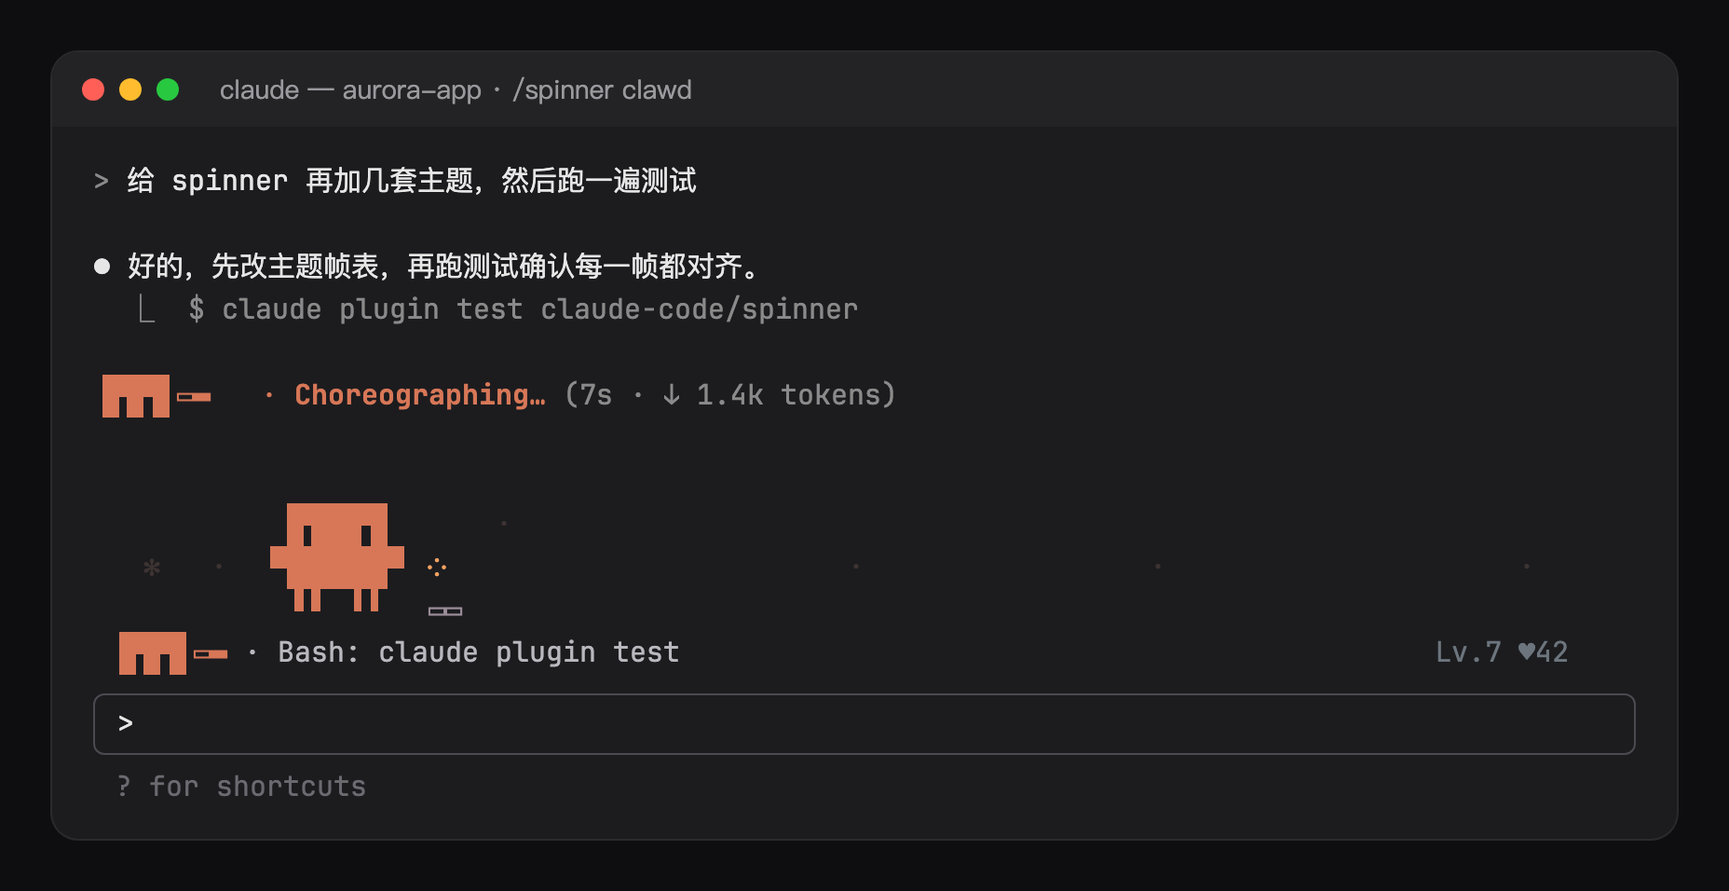
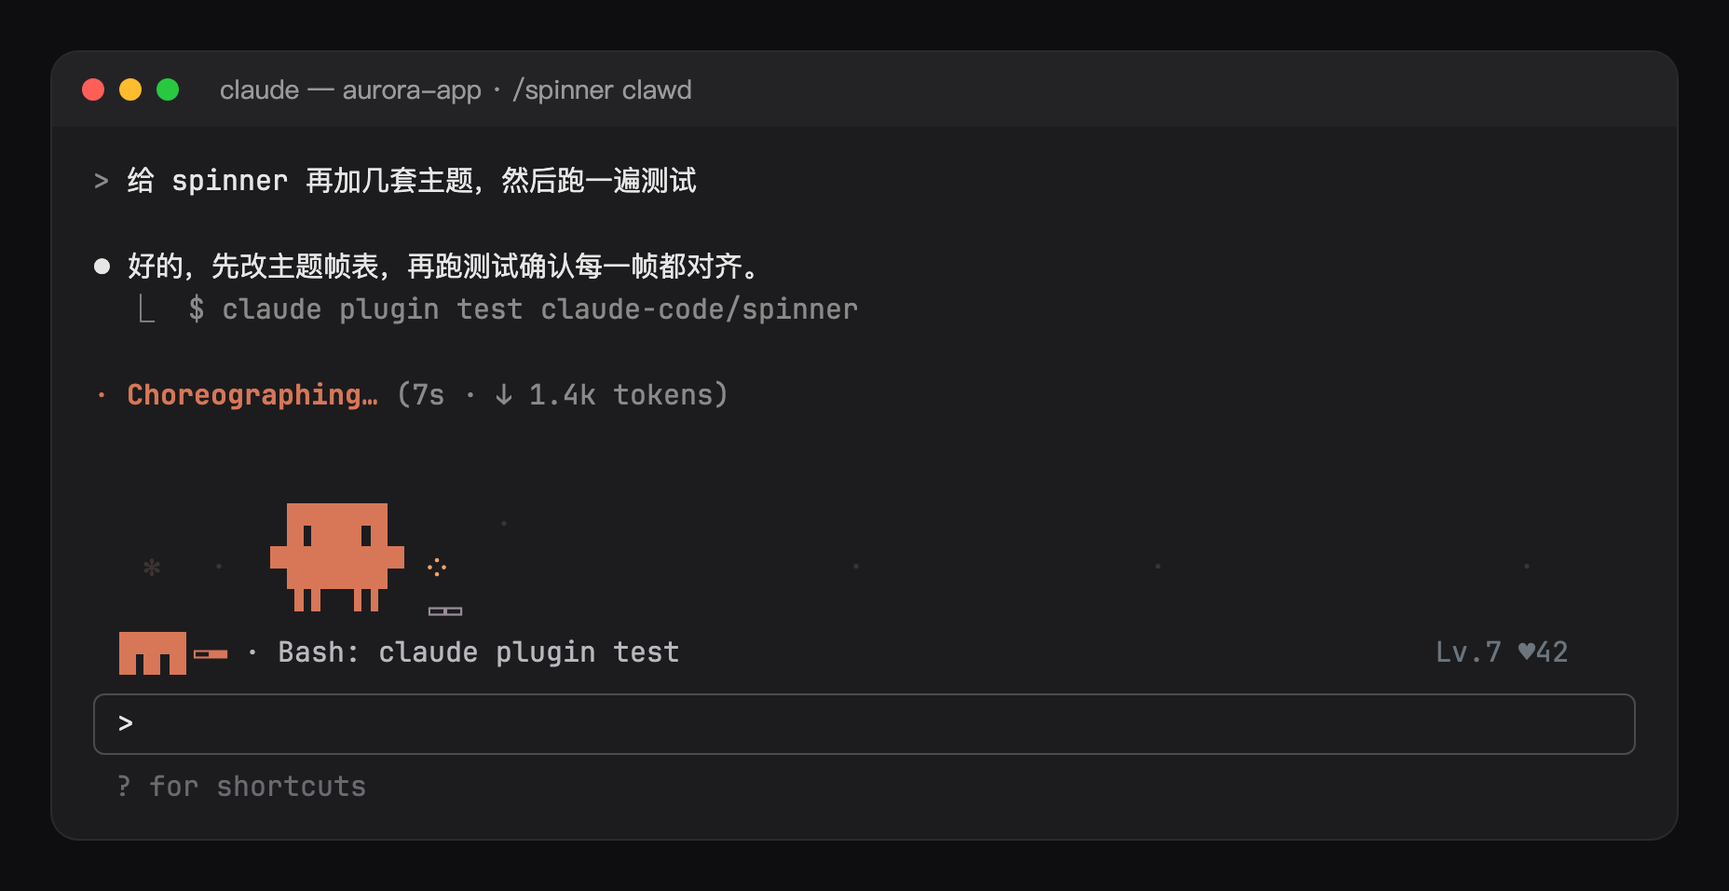
🐛 fix(spinner): 只保留一个角色，气泡不再重复 Spinner 行的状态
- 宠物行显示时 Spinner 行不再放角色；关掉伴侣时角色回到 Spinner 行
- 气泡只显示正在跑的工具、等待确认和结束状态，思考 / 输出时不再说"想一想"
- 角色走出一侧时从另一侧进场，小剧场不再出现空场
- 重绘预览图，发布 0.2.1

Changed region(s): [[0.0312, 0.3944, 0.5312, 0.4854]]

diff --git a/claude-code/spinner/hooks/i18n.ts b/claude-code/spinner/hooks/i18n.ts
@@ -76,11 +76,7 @@ export type Key =
   | 'finale.aborted'
   | 'finale.error'
   | 'pet.hello'
-  | 'pet.think'
-  | 'pet.tool'
   | 'pet.ask'
-  | 'pet.say'
-  | 'pet.wait'
   | 'pet.ready'
   | 'pet.aborted'
   | 'pet.error'
@@ -110,11 +106,7 @@ export const MESSAGES: Record<Lang, Record<Key, string>> = {
     'finale.aborted': 'Interrupted',
     'finale.error': 'Something went wrong',
     'pet.hello': 'I’m here with you~',
-    'pet.think': 'Thinking…',
-    'pet.tool': '{tool}',
     'pet.ask': 'Waiting for your OK~',
-    'pet.say': 'Writing the reply',
-    'pet.wait': 'Waiting on the model…',
     'pet.ready': 'All done, take a look!',
     'pet.aborted': 'Okay, stopped.',
     'pet.error': 'Ouch… something broke',
@@ -143,11 +135,7 @@ export const MESSAGES: Record<Lang, Record<Key, string>> = {
     'finale.aborted': '已中断',
     'finale.error': '出错了',
     'pet.hello': '我在这儿陪你～',
-    'pet.think': '想一想…',
-    'pet.tool': '{tool}',
     'pet.ask': '等你确认一下～',
-    'pet.say': '正在写回复',
-    'pet.wait': '等模型回应…',
     'pet.ready': '做完啦，快看看！',
     'pet.aborted': '好吧，停下了',
     'pet.error': '呜…出错了',
@@ -176,11 +164,7 @@ export const MESSAGES: Record<Lang, Record<Key, string>> = {
     'finale.aborted': '已中斷',
     'finale.error': '出錯了',
     'pet.hello': '我在這裡陪你～',
-    'pet.think': '想一想…',
-    'pet.tool': '{tool}',
     'pet.ask': '等你確認一下～',
-    'pet.say': '正在寫回覆',
-    'pet.wait': '等模型回應…',
     'pet.ready': '做完了，快看看！',
     'pet.aborted': '好吧，停下了',
     'pet.error': '嗚…出錯了',
@@ -209,11 +193,7 @@ export const MESSAGES: Record<Lang, Record<Key, string>> = {
     'finale.aborted': '中断しました',
     'finale.error': 'エラーが発生しました',
     'pet.hello': 'そばにいるよ～',
-    'pet.think': '考え中…',
-    'pet.tool': '{tool}',
     'pet.ask': '確認を待ってるよ～',
-    'pet.say': '返信を書いてる',
-    'pet.wait': 'モデルの応答待ち…',
     'pet.ready': 'できたよ、見てみて！',
     'pet.aborted': 'はい、止めたよ',
     'pet.error': 'うぅ…エラーだ',
@@ -242,11 +222,7 @@ export const MESSAGES: Record<Lang, Record<Key, string>> = {
     'finale.aborted': '중단됨',
     'finale.error': '오류가 발생했습니다',
     'pet.hello': '여기서 함께할게요~',
-    'pet.think': '생각 중…',
-    'pet.tool': '{tool}',
     'pet.ask': '확인을 기다려요~',
-    'pet.say': '답장을 쓰는 중',
-    'pet.wait': '모델 응답 대기…',
     'pet.ready': '다 했어요, 확인해 보세요!',
     'pet.aborted': '네, 멈췄어요',
     'pet.error': '으… 오류가 났어요',
@@ -275,11 +251,7 @@ export const MESSAGES: Record<Lang, Record<Key, string>> = {
     'finale.aborted': 'Interrumpido',
     'finale.error': 'Algo salió mal',
     'pet.hello': '¡Aquí estoy contigo!',
-    'pet.think': 'Pensando…',
-    'pet.tool': '{tool}',
     'pet.ask': 'Esperando tu OK~',
-    'pet.say': 'Escribiendo la respuesta',
-    'pet.wait': 'Esperando al modelo…',
     'pet.ready': '¡Listo, échale un vistazo!',
     'pet.aborted': 'Vale, me detengo.',
     'pet.error': 'Ay… algo falló',
@@ -308,11 +280,7 @@ export const MESSAGES: Record<Lang, Record<Key, string>> = {
     'finale.aborted': 'Interrompu',
     'finale.error': 'Une erreur est survenue',
     'pet.hello': 'Je suis là avec toi~',
-    'pet.think': 'Je réfléchis…',
-    'pet.tool': '{tool}',
     'pet.ask': 'J’attends ton accord~',
-    'pet.say': 'J’écris la réponse',
-    'pet.wait': 'J’attends le modèle…',
     'pet.ready': 'Fini, jette un œil\u00a0!',
     'pet.aborted': 'D’accord, j’arrête.',
     'pet.error': 'Aïe… une erreur',
@@ -341,11 +309,7 @@ export const MESSAGES: Record<Lang, Record<Key, string>> = {
     'finale.aborted': 'Abgebrochen',
     'finale.error': 'Etwas ist schiefgelaufen',
     'pet.hello': 'Ich bin bei dir~',
-    'pet.think': 'Denke nach…',
-    'pet.tool': '{tool}',
     'pet.ask': 'Warte auf dein OK~',
-    'pet.say': 'Schreibe die Antwort',
-    'pet.wait': 'Warte auf das Modell…',
     'pet.ready': 'Fertig, schau mal!',
     'pet.aborted': 'Okay, angehalten.',
     'pet.error': 'Autsch… ein Fehler',
@@ -374,11 +338,7 @@ export const MESSAGES: Record<Lang, Record<Key, string>> = {
     'finale.aborted': 'Interrompido',
     'finale.error': 'Algo deu errado',
     'pet.hello': 'Estou aqui com você~',
-    'pet.think': 'Pensando…',
-    'pet.tool': '{tool}',
     'pet.ask': 'Esperando seu OK~',
-    'pet.say': 'Escrevendo a resposta',
-    'pet.wait': 'Esperando o modelo…',
     'pet.ready': 'Pronto, dá uma olhada!',
     'pet.aborted': 'Tá, parei.',
     'pet.error': 'Ai… deu erro',
@@ -407,11 +367,7 @@ export const MESSAGES: Record<Lang, Record<Key, string>> = {
     'finale.aborted': 'Прервано',
     'finale.error': 'Что-то пошло не так',
     'pet.hello': 'Я рядом~',
-    'pet.think': 'Думаю…',
-    'pet.tool': '{tool}',
     'pet.ask': 'Жду твоего OK~',
-    'pet.say': 'Пишу ответ',
-    'pet.wait': 'Жду модель…',
     'pet.ready': 'Готово, посмотри!',
     'pet.aborted': 'Ладно, остановился.',
     'pet.error': 'Ой… ошибка',

diff --git a/scripts/spinner-shots.ts b/scripts/spinner-shots.ts
@@ -8,8 +8,8 @@ import { join } from 'node:path'
 
 import { chromium } from 'playwright-core'
 
-import { SPRITE_MS, STAGE_MS, THEMES, THEME_NAMES, blank, finaleScene, frame, hsl, padTo, petRow, poseOf, put, segments, textWidth } from '../claude-code/spinner/hooks/themes'
-import type { Act, Cell, Mode, Style, Theme } from '../claude-code/spinner/hooks/themes'
+import { STAGE_MS, THEMES, THEME_NAMES, blank, finaleScene, frame, petRow, put, segments, textWidth } from '../claude-code/spinner/hooks/themes'
+import type { Act, Cell, Style, Theme } from '../claude-code/spinner/hooks/themes'
 
 const COLS = 92
 const WORK_FRAMES = 42
@@ -42,20 +42,11 @@ function line(parts: [string, Style?][]): Row {
   return g[0]!
 }
 
-function sprite(theme: Theme, mode: Mode, t: number): [string, Style][] {
-  const frames = theme.sprite[poseOf(mode)]
-  const width = Math.max(...Object.values(theme.sprite).flat().map(textWidth))
-  const text = padTo(frame(frames, t), width)
-  if (!theme.isRainbow) return [[text, { c: theme.color, b: true }]]
-  return Array.from(text).map((ch, i) => [ch, { c: hsl((i * 40 + t * 24) % 360, 0.95, 0.62), b: true }])
-}
-
 /** The terminal's rows at frame `f`: a turn running, then its finale. */
 function screen(theme: Theme, f: number): Row[] {
   const rows: Row[] = []
   const text = (parts: [string, Style?][]) => Object.assign(line(parts), { isText: true })
   const isDone = f >= WORK_FRAMES
-  const mode: Mode = f < 14 ? 'thinking' : f < 28 ? 'tool-use' : 'responding'
   const act: Act = f < 14 ? 'think' : f < 28 ? 'tool' : 'say'
   rows.push(text([['> ', { c: DIM }], ['给 spinner 再加几套主题，然后跑一遍测试', { c: WHITE }]]))
   rows.push(line([]))
@@ -68,9 +59,8 @@ function screen(theme: Theme, f: number): Row[] {
   } else {
     const glyph = frame(['·', '✢', '✳', '✶', '✻', '✽', '✻', '✶', '✳', '✢'], f)
     const secs = 3 + Math.floor(f / 5)
+    // With the companion's row showing, the engine's line stays its own.
     rows.push(line([
-      ...sprite(theme, mode, Math.floor((f * STAGE_MS) / SPRITE_MS)),
-      [' '],
       [`${glyph} `, { c: ENGINE }],
       ['Choreographing…', { c: ENGINE, b: true }],
       [` (${secs}s · ↓ ${(0.4 + f * 0.05).toFixed(1)}k tokens)`, { c: DIM }],
@@ -80,7 +70,7 @@ function screen(theme: Theme, f: number): Row[] {
   rows.push(line([]))
   const w = COLS - 3
   const stage = isDone ? finaleScene(theme, 'answer', '完成 · 12s', f - WORK_FRAMES, w) : theme.scene(f, w, act)
-  const bubble = act === 'think' ? '想一想…' : act === 'tool' ? 'Bash: claude plugin test' : '正在写回复'
+  const bubble = act === 'tool' ? 'Bash: claude plugin test' : ''
   const pet = petRow(theme, { state: isDone ? 'ready' : act, bubble: isDone ? '做完啦，快看看！' : bubble, stats: 'Lv.7 ♥42' }, f, w, isDone && f - WORK_FRAMES > 8 && f - WORK_FRAMES < 20 ? f - WORK_FRAMES - 8 : 0)
   for (const row of [...stage, ...(isDone ? [] : pet)]) rows.push([...row, ...line([]).slice(0, 3)])
   if (isDone) for (const row of pet) rows.push([...row, ...line([]).slice(0, 3)])
@@ -186,7 +176,7 @@ async function main() {
   const gallery = THEME_NAMES.map(name => {
     const theme = THEMES[name]
     const rows = [
-      line([...sprite(theme, 'tool-use', 1), [' '], ['✻ ', { c: ENGINE }], ['Choreographing…', { c: ENGINE, b: true }]]),
+      line([['✻ ', { c: ENGINE }], ['Choreographing…', { c: ENGINE, b: true }]]),
       line([]),
       ...theme.scene(36, COLS, 'tool'),
       ...petRow(theme, { state: 'tool', bubble: 'Bash: npm test', stats: 'Lv.7 ♥42' }, 1, COLS, 0),

diff --git a/claude-code/spinner/tests/spinner.test.tsx b/claude-code/spinner/tests/spinner.test.tsx
@@ -64,7 +64,7 @@ test('every scene, finale and companion row fills exactly its width, every frame
           ...scene,
           ...finaleScene(theme, 'answer', '完成 · 12s', t, w),
           ...finaleScene(theme, 'error', 'x', t, w),
-          ...petRow(theme, { state: acts[t % 4]!, bubble: 'Bash: npm test', stats: 'Lv.3 ♥12' }, t, w, t % 3),
+          ...petRow(theme, { state: acts[t % 4]!, bubble: t % 2 ? 'Bash: npm test' : '', stats: 'Lv.3 ♥12' }, t, w, t % 3),
           ...petRow(theme, { state: 'sleep', bubble: 'Zzz…', stats: 'Lv.1 ♥0' }, t, w, 0),
         ]
         for (const row of rows) {
@@ -87,11 +87,16 @@ test('helpers', async () => {
   expect(toolLabel({ tool: 'mcp__github__create_issue' })).toBe('create_issue')
 })
 
-test('mascot rides in front of the engine line and animates', async ($, on) => {
+test('one mascot: in the companion row, or in front of the engine line without it', async ($, on) => {
   const clock = host(on)
   await $.session.start(START)
   await clock.settle()
   await $.command.run({ ...RUN, command: 'spinner', args: 'cat' })
+  const plain = await $.ui.mount({ plugin: 'spinner', surface: 'terminal', ...SPINNER })
+  expect(await plain.findAll({ type: 'Client' })).toHaveLength(0)
+  await plain.unmount()
+
+  await $.command.run({ ...RUN, command: 'spinner', args: 'companion off' })
   for (const surface of ['terminal', 'desktop'] as const) {
     const ui = await $.ui.mount({ plugin: 'spinner', surface, ...SPINNER })
     expect(await ui.find({ type: 'Text', text: 'Sauteing…' })).toBeDefined()
@@ -113,8 +118,9 @@ test('band plays the scene and the companion while working, keeps other bands', 
     const ui = await $.ui.mount({ plugin: 'spinner', surface, ...BAND })
     expect(await ui.find({ type: 'Text', text: 'Sauteing…' })).toBeDefined()
     expect(await drawn(ui, 'work')).toContain('HI 00000')
-    expect(await drawn(ui, 'work')).toContain('想一想…')
     expect(await drawn(ui, 'work')).toContain('Lv.1 ♥0')
+    // Thinking is the engine's line to say; the bubble stays quiet.
+    expect(await drawn(ui, 'work')).not.toContain(' · ')
     await ui.advance(STAGE_MS * 5)
     expect(await drawn(ui, 'work')).toContain('HI 00005')
     await ui.unmount()
@@ -123,7 +129,7 @@ test('band plays the scene and the companion while working, keeps other bands', 
   await $.command.run({ ...RUN, command: 'spinner', args: 'stage off' })
   const off = await $.ui.mount({ plugin: 'spinner', surface: 'terminal', ...BAND })
   expect(await drawn(off, 'work')).not.toContain('HI 0')
-  expect(await drawn(off, 'work')).toContain('想一想…')
+  expect(await drawn(off, 'work')).toContain('Lv.1 ♥0')
   await off.unmount()
 })
 
@@ -147,7 +153,8 @@ test('the companion follows tool calls and permission prompts', async ($, on) =>
   await clock.advance(1000)
   await call
   ui = await $.ui.mount({ plugin: 'spinner', surface: 'terminal', ...BAND })
-  expect(await drawn(ui, 'work')).toContain('想一想…')
+  expect(await drawn(ui, 'work')).not.toContain('Bash: npm test')
+  expect(await drawn(ui, 'work')).not.toContain('等你确认')
   await ui.unmount()
 })
 

diff --git a/claude-code/spinner/hooks/themes.ts b/claude-code/spinner/hooks/themes.ts
@@ -80,8 +80,8 @@ function catScene(t: number, w: number): Grid {
     const n = noise(x + 1000 * Math.floor((x + t) / w))
     if (mod(x + t, 7) === 0) put(g, x, 1, n < 0.5 ? '˙' : ',', { c: '#7fb069', d: true })
   }
-  const lap = w + 16
-  const cx = mod(Math.floor(t * 0.6), lap) - 12
+  const lap = w + 8
+  const cx = mod(Math.floor(t * 0.6), lap) - 6
   put(g, cx, 1, 'ᓚᘏᗢ', { c: frame(['#ffb3c6', '#ffc8dd'], t >> 1), b: true })
   put(g, cx + 5, 1, frame(['◐', '◓', '◑', '◒'], t), { c: '#ffd166' })
   // Hearts float up behind the cat and fade.
@@ -98,8 +98,8 @@ function bunnyScene(t: number, w: number): Grid {
   for (let x = 0; x < w; x++) {
     if (mod(x * 7 + 3, 11) === 0) put(g, x, 1, '"', { c: '#80b918', d: true })
   }
-  const lap = w + 14
-  const bx = mod(Math.floor(t * 0.5), lap) - 10
+  const lap = w + 11
+  const bx = mod(Math.floor(t * 0.5), lap) - 11
   // Carrots ahead of the bunny; the ones it has passed are eaten.
   for (let x = 6; x < w; x += 13) {
     if (x > bx + 9 || bx < -6) put(g, x, 1, 'ɣ', { c: '#ff9f1c', b: true })
@@ -243,7 +243,7 @@ function clawdScene(t: number, w: number, act: Act): Grid {
     if (noise(x * 3 + 1) < 0.06) put(g, x, mod(x, 2), mod(t + x * 7, 40) < 3 ? '✻' : '·', { c: '#5c4b45', d: true })
   }
   // He strolls across, stopping halfway to work; then strolls on.
-  const lap = w + 30
+  const lap = w + 10
   const p = mod(t, lap + 40)
   const pause = Math.floor(lap / 2)
   const x = p < pause ? p - 10 : p < pause + 40 ? pause - 10 : p - 50
@@ -353,7 +353,7 @@ const TAIL = ['...YYYY', '....YY.', '...YY..', '..YYYY.', '...YY..', '..YY...']
 
 function sparkyScene(t: number, w: number, act: Act): Grid {
   const cv = canvas(w, 3)
-  const lap = w + 20
+  const lap = w + 8
   const x = mod(Math.floor(t * 0.5), lap) - 8
   draw(cv, x - 7, 0, TAIL, { Y: '#d4a017' })
   const cheek = mod(t, 6) < 3 && act === 'tool' ? '#fff3b0' : '#e63946'
@@ -383,7 +383,7 @@ function bluecatScene(t: number, w: number, act: Act): Grid {
     const cx = mod(Math.floor(noise(i) * w) - Math.floor(t * 0.3), w + 8) - 4
     draw(cv, cx, 1 + (i % 3), ['.WW.', 'WWWW'], { W: '#2b2d42' })
   }
-  const lap = w + 18
+  const lap = w + 9
   const x = mod(Math.floor(t * 0.4), lap) - 9
   // Gadgets tumble out of the pocket while a tool runs.
   if (act === 'tool') {
@@ -783,7 +783,7 @@ export function petRow(theme: Theme, pet: PetView, t: number, w: number, hearts:
     put(g, x, 0, frame(['♡', '♥', '♡ ♥', '♥ ♡'], hearts), { c: '#ff8fab', b: true })
     x += 4
   }
-  put(g, x, 0, `${s === 'ask' ? '❯ ' : '· '}${pet.bubble}`, BUBBLE[s] ?? { c: '#b8b8be' })
+  if (pet.bubble) put(g, x, 0, `${s === 'ask' ? '❯ ' : '· '}${pet.bubble}`, BUBBLE[s] ?? { c: '#b8b8be' })
   put(g, w - textWidth(pet.stats) - 1, 0, pet.stats, { c: '#6c757d' })
   return g
 }

diff --git a/claude-code/spinner/hooks/register.tsx b/claude-code/spinner/hooks/register.tsx
@@ -81,8 +81,10 @@ async function settle($: EngineInterface, running: Map<string, string>): Promise
   await update($, activity, () => (last ? { act: 'tool' as Act, tool: last } : { act: 'think' as Act }))
 }
 
+/** The bubble says what the engine's spinner line does not: the tool, a prompt waiting, how the turn ended. */
 function bubbleOf(state: Act | Mood, tool: string | undefined): string {
-  if (state === 'tool') return tool ? m('pet.tool', { tool }) : m('pet.think')
+  if (state === 'tool') return tool ?? ''
+  if (state === 'think' || state === 'say' || state === 'wait') return ''
   return m(`pet.${state}`)
 }
 
@@ -240,7 +242,8 @@ export const register: Register = (on, options) => {
   // The mascot rides in front of the engine's own line, which keeps its word,
   // elapsed time and tokens.
   on('ui.render', { component: 'Spinner' }, async ($, e, next) => {
-    if (await read($, isHidden)) return next(e)
+    // One mascot at a time: with the companion's row showing, it stays there.
+    if ((await read($, isHidden)) || !(await read($, isCompanionOff))) return next(e)
     const ui = $.ui.resolve(e)
     if (!('Client' in ui)) return next(e)
     const { Box, Client } = ui

diff --git a/README.md b/README.md
@@ -19,7 +19,7 @@
 | [`hud`](claude-code/hud) | 把 [claude-hud](https://github.com/jarrodwatts/claude-hud) 0.10.0 改成 mod，显示模型、项目、git、上下文、用量、工具、子代理和待办，可以放在输入框上方或下方。另外加了：长任务结束提醒、上下文和额度预警、用量耗尽预测、每日预算、近 7 天花费、未提交改动提醒、一行任务摘要，`/hud detail` 详情面板，以及 12 套可随时切换的主题（科技霓虹、彩虹渐变、emoji、樱花 / 猫咪 / 机甲 / 热血等带颜文字看板娘的动漫风、Nerd Font 与 powerline） |
 | [`ts-band`](claude-code/ts-band) | 在输入框上方显示 Tailscale 节点状态：全部直连时只占一个短标记，有节点走中继 / DERP（黄）或离线（红）时只列出这些节点；节点上线或掉线时弹提示 |
 | [`hitokoto`](claude-code/hitokoto) | 在输入框上方显示一句[一言](https://hitokoto.cn)，可以定时换、每天一句、每个会话一句或每次发消息换一句 |
-| [`spinner`](claude-code/spinner) | AI 运行时的动画和宠物伴侣：Spinner 行前加一个会按思考 / 调工具 / 输出切换动作的小角色；输入框上方放动画小剧场，有像素风的雷霆战机横版射击、Claude 的 Clawd、吃豆人、电气鼠、蓝色机器猫、彩虹猫，以及猫、兔子、樱花、机甲、霓虹、小恐龙、小鱼、字符雨；宠物伴侣参考 Codex Pets，气泡里显示正在跑的工具、等你确认时提醒，空闲时留在输入框上方，跑完一轮涨经验升级，点它或 `/spinner pet` 摸摸会冒爱心；一轮结束放 3 秒彩带并显示用时；14 套主题，`/spinner` 随时切换和预览 |
+| [`spinner`](claude-code/spinner) | AI 运行时的动画和宠物伴侣：输入框上方放动画小剧场，有像素风的雷霆战机横版射击、Claude 的 Clawd、吃豆人、电气鼠、蓝色机器猫、彩虹猫，以及猫、兔子、樱花、机甲、霓虹、小恐龙、小鱼、字符雨；宠物伴侣参考 Codex Pets，按思考 / 调工具 / 输出切换动作，气泡只说 Spinner 行没有的信息（正在跑的工具、等你确认），空闲时留在输入框上方，跑完一轮涨经验升级，点它或 `/spinner pet` 摸摸会冒爱心；一轮结束放 3 秒彩带并显示用时；14 套主题，`/spinner` 随时切换和预览 |
 
 从本仓库的插件市场安装：
 

diff --git a/README.en.md b/README.en.md
@@ -19,7 +19,7 @@ Mods, extensions and plugins I've written for coding-agent harnesses, one folder
 | [`hud`](claude-code/hud) | [claude-hud](https://github.com/jarrodwatts/claude-hud) 0.10.0 as a mod: model, project, git, context, usage, tools, agents and todos, above or below the prompt. On top of that: a turn-done alert for long turns, context and limit alerts, a forecast of when a limit runs out, a daily budget, the last 7 days' spend, a nag about uncommitted changes, a one-line task summary, a `/hud detail` pane, and 12 themes to switch between live (neon, rainbow gradient, emoji, anime ones with a kaomoji mascot: sakura, kawaii, mecha, shonen; Nerd Font and powerline) |
 | [`ts-band`](claude-code/ts-band) | Tailscale node state in a band above the prompt: one short mark while every node is direct, otherwise only the nodes on a relay or DERP (yellow) or offline (red), with a toast when a node comes up or goes down |
 | [`hitokoto`](claude-code/hitokoto) | A line from [Hitokoto (一言)](https://hitokoto.cn) above the prompt, refreshed on a timer, once a day, per session or per prompt |
-| [`spinner`](claude-code/spinner) | Animations and a companion pet while the model works: a mascot in front of the spinner that changes pose for thinking, tools and replies; a scene above the prompt (pixel-art: a shoot-em-up, Claude's Clawd, a dot-eater, an electric mouse, a robot cat, a rainbow cat; plus cat, bunny, sakura, mecha, neon, dino, ocean and Matrix rain); a Codex-style pet whose bubble names the tool running and flags a permission prompt, stays between turns, levels up and takes a pat (click or `/spinner pet`); a three-second confetti finale with the turn's time; fourteen themes, switched and previewed with `/spinner` |
+| [`spinner`](claude-code/spinner) | Animations and a companion pet while the model works: a scene above the prompt (pixel-art: a shoot-em-up, Claude's Clawd, a dot-eater, an electric mouse, a robot cat, a rainbow cat; plus cat, bunny, sakura, mecha, neon, dino, ocean and Matrix rain); a Codex-style pet that changes pose for thinking, tools and replies, whose bubble names the tool running and flags a permission prompt (never repeating the spinner line), stays between turns, levels up and takes a pat (click or `/spinner pet`); a three-second confetti finale with the turn's time; fourteen themes, switched and previewed with `/spinner` |
 
 Install them from this repo's marketplace:
 

diff --git a/claude-code/spinner/README.md b/claude-code/spinner/README.md
@@ -4,9 +4,9 @@ Animations and a companion pet while the model works.
 
 ![spinner: Clawd through a turn, the companion's bubble and the finale](assets/clawd.gif)
 
-- **Mascot**: a little character in front of Claude Code's own spinner line (`[◉_◉]⊃━━ ✢ Choreographing… (4s · ↓ 14 tokens)`), with frames for thinking, using tools, responding and waiting. The engine's word, elapsed time and tokens stay as they are.
 - **Stage**: an animated scene in the band above the prompt while a turn runs. Other mods' bands (hud, ts-band, hitokoto) stay beneath it.
-- **Companion**: a pet in a row under the stage, in the spirit of Codex's pets. It shows what the model is doing (`Bash: npm test`, `Edit: themes.ts`, waiting on a permission prompt), stays between turns (done, interrupted, failed; dozing after five quiet minutes), gains a level as turns finish (`Lv.4`), and a click on the band or `/spinner pet` pats it (`♥12`, hearts float up). Its level and affection are kept across sessions.
+- **Companion**: a pet in a row under the stage, in the spirit of Codex's pets, with poses for thinking, using tools, responding and waiting. Its bubble says only what Claude Code's own spinner line doesn't: the tool running (`Bash: npm test`, `Edit: themes.ts`) or a permission prompt waiting on you; while the model thinks it just looks busy. It stays between turns (done, interrupted, failed; dozing after five quiet minutes), gains a level as turns finish (`Lv.4`), and a click on the band or `/spinner pet` pats it (`♥12`, hearts float up). Its level and affection are kept across sessions.
+- **Mascot on the spinner line**: with the companion turned off, the mascot moves in front of Claude Code's own spinner line instead (`[◉_◉]⊃━━ ✢ Choreographing… (4s · ↓ 14 tokens)`), whose word, elapsed time and tokens stay as they are. One mascot shows at a time.
 - **Finale**: for three seconds after a turn ends, confetti bursts around the mascot with the time the turn took (`(=^▽^=)ﾉ  Done · 12s`); an interrupted turn gets a sad face, a failed one a glitch.
 
 ## Themes
